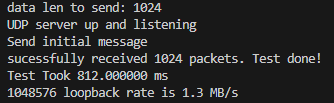
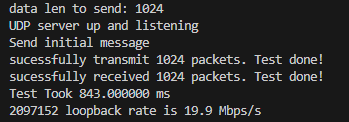
Correcting the Speed of the actual payload. For the bits in the wire will need to add the UDP overhead.

diff --git a/utility/scripts/socket_loopback_speed.py b/utility/scripts/socket_loopback_speed.py
@@ -41,6 +41,7 @@ while(True):
     tx_count -= 1
     if tx_count == 0:
         end_tm = time.monotonic()
+        print("sucessfully transmit %d packets. Test done!" % TX_PACKETS_SEND)
         if(rx_count == TX_PACKETS_SEND):
             print("sucessfully received %d packets. Test done!" % rx_count)
         break
@@ -49,6 +50,6 @@ while(True):
         UDPServerSocket.sendto(data, (UDP_IP, UDP_PORT))
 
 loopback_time = end_tm-initial_tm
-loopback_data_ = PAYLOAD_SIZE*TX_PACKETS_SEND
+loopback_data_ = 2*PAYLOAD_SIZE*TX_PACKETS_SEND # transmitted + received data bytes
 print("Test Took %f ms" % (1000*loopback_time))
-print(f'{loopback_data_} loopback rate is {loopback_data_ / (loopback_time*(1000 * 1000)):3.1f} MB/s')
+print(f'{loopback_data_} loopback rate is {8*loopback_data_ / (loopback_time*(1000 * 1000)):3.1f} Mbps/s')
